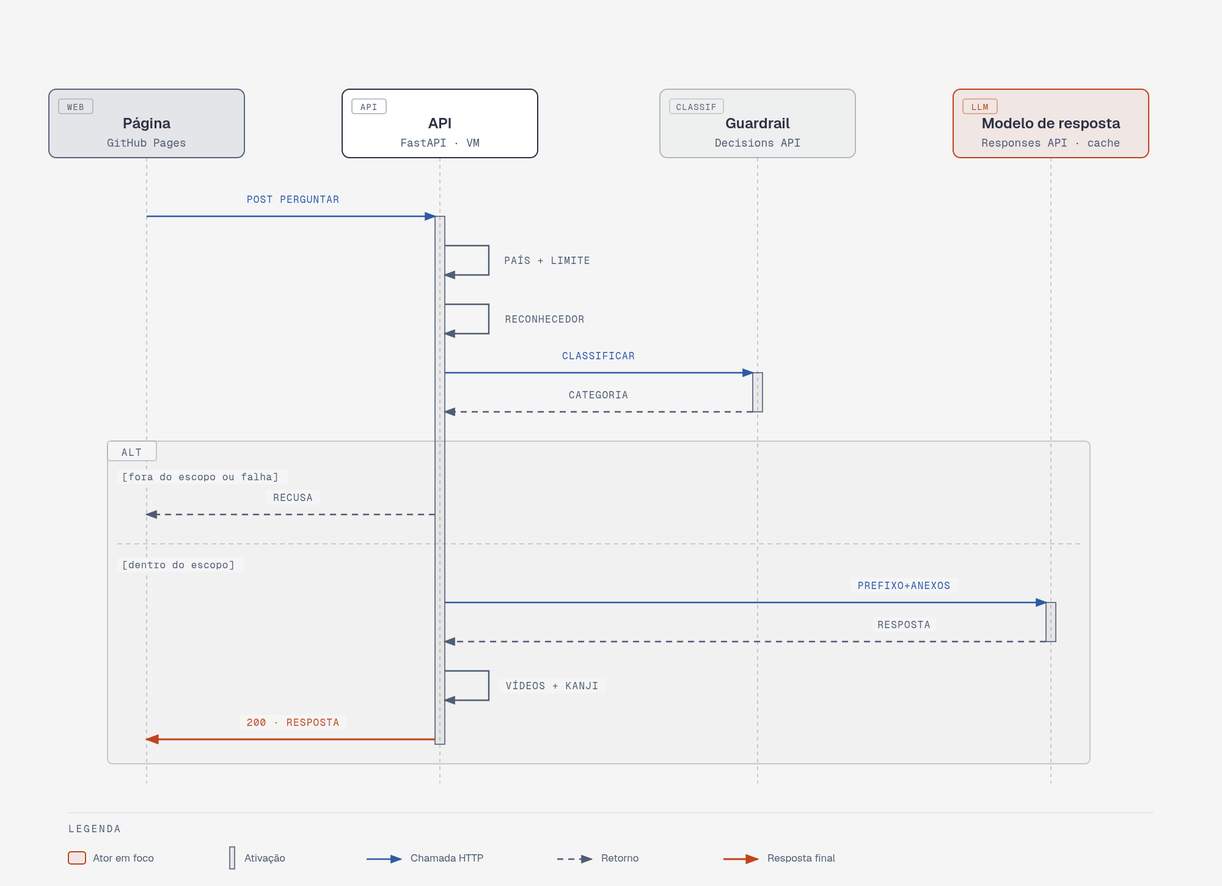
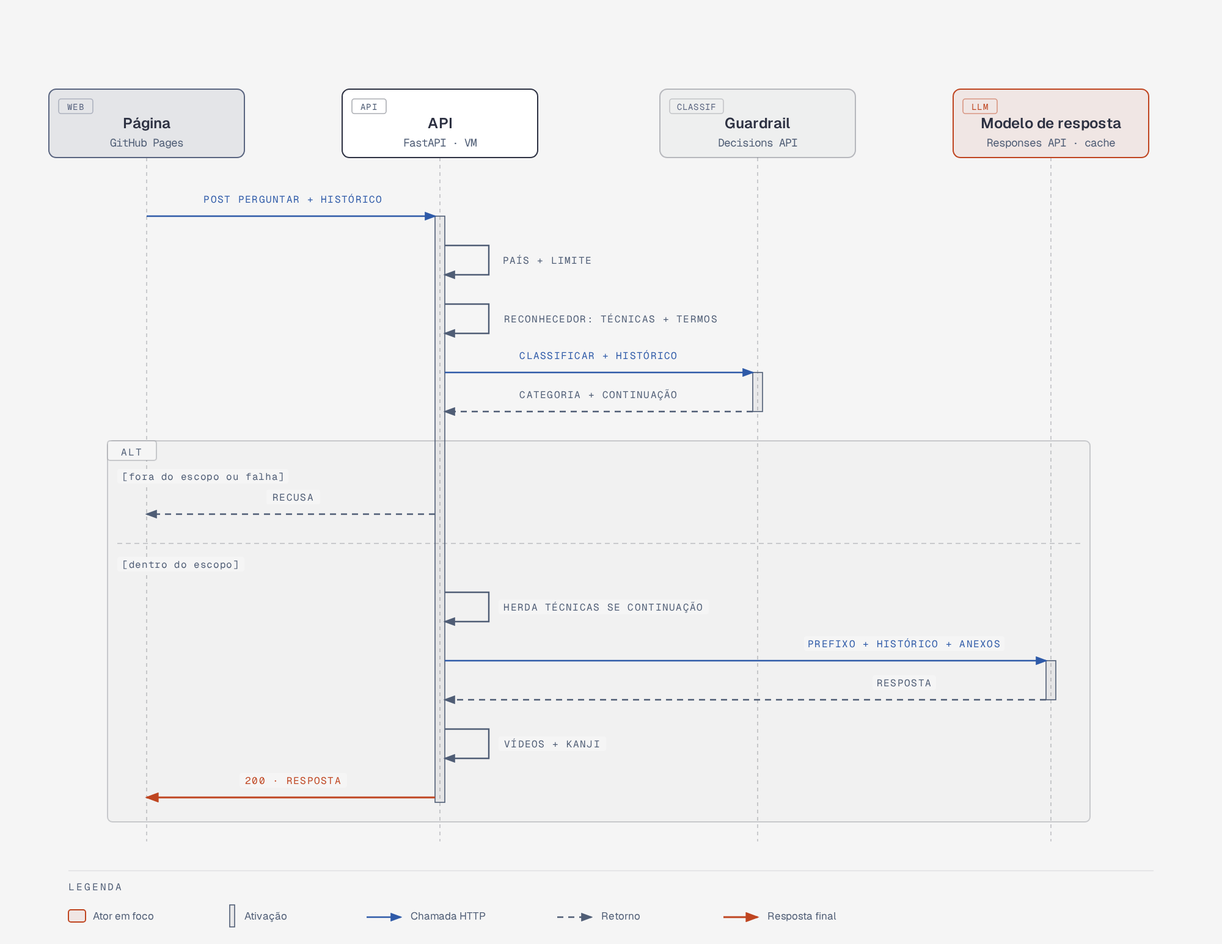
docs: refresh the page screenshot and the question diagrams
The screenshot still showed the techniques intro removed in PR #31. The
sequence diagram now shows the history reaching the guardrail, the
continuation verdict and the inherited techniques from PRs #38 and #39.

diff --git a/docs/arquitetura/pergunta-sequencia.html b/docs/arquitetura/pergunta-sequencia.html
@@ -60,20 +60,20 @@
     <p class="eyebrow">Sequence · Arquitetura CAG</p>
     <h1>Uma pergunta, ponta a ponta</h1>
     <div class="diagram-container">
-      <svg viewBox="0 0 1000 724" xmlns="http://www.w3.org/2000/svg" role="img" aria-labelledby="pergunta-sequencia-title pergunta-sequencia-desc">
+      <svg viewBox="0 0 1000 772" xmlns="http://www.w3.org/2000/svg" role="img" aria-labelledby="pergunta-sequencia-title pergunta-sequencia-desc">
         <title id="pergunta-sequencia-title">Uma pergunta, ponta a ponta</title>
-        <desc id="pergunta-sequencia-desc">Sequência de uma pergunta: a página chama a API, que passa pelo bloqueio por país, pelo rate limit e pelo reconhecedor, consulta o guardrail e, dentro do escopo, chama o modelo de resposta com o prefixo cacheado antes de devolver a resposta com vídeos e kanji.</desc>
+        <desc id="pergunta-sequencia-desc">Sequência de uma pergunta: a página chama a API, que passa pelo bloqueio por país, pelo rate limit e pelo reconhecedor, consulta o guardrail, que devolve a categoria e se a pergunta continua a troca anterior, e, dentro do escopo, chama o modelo de resposta com o prefixo cacheado antes de devolver a resposta com vídeos e kanji.</desc>
         <defs>
 <marker id="arrow" markerWidth="8" markerHeight="6" refX="7" refY="3" orient="auto"><polygon points="0 0, 8 3, 0 6" fill="#4f5d75"/></marker>
 <marker id="arrow-accent" markerWidth="8" markerHeight="6" refX="7" refY="3" orient="auto"><polygon points="0 0, 8 3, 0 6" fill="#bf4520"/></marker>
 <marker id="arrow-link" markerWidth="8" markerHeight="6" refX="7" refY="3" orient="auto"><polygon points="0 0, 8 3, 0 6" fill="#2e5aa8"/></marker>
         </defs>
         <rect width="100%" height="100%" fill="#f5f5f5"/>
-<line x1="120" y1="128" x2="120" y2="640" stroke="rgba(45,49,66,0.22)" stroke-width="1" stroke-dasharray="3,3"/>
-<line x1="360" y1="128" x2="360" y2="640" stroke="rgba(45,49,66,0.22)" stroke-width="1" stroke-dasharray="3,3"/>
-<line x1="620" y1="128" x2="620" y2="640" stroke="rgba(45,49,66,0.22)" stroke-width="1" stroke-dasharray="3,3"/>
-<line x1="860" y1="128" x2="860" y2="640" stroke="rgba(45,49,66,0.22)" stroke-width="1" stroke-dasharray="3,3"/>
-<rect x="88" y="360" width="804" height="264" rx="4" fill="rgba(45,49,66,0.02)" stroke="rgba(45,49,66,0.22)" stroke-width="1"/>
+<line x1="120" y1="128" x2="120" y2="688" stroke="rgba(45,49,66,0.22)" stroke-width="1" stroke-dasharray="3,3"/>
+<line x1="360" y1="128" x2="360" y2="688" stroke="rgba(45,49,66,0.22)" stroke-width="1" stroke-dasharray="3,3"/>
+<line x1="620" y1="128" x2="620" y2="688" stroke="rgba(45,49,66,0.22)" stroke-width="1" stroke-dasharray="3,3"/>
+<line x1="860" y1="128" x2="860" y2="688" stroke="rgba(45,49,66,0.22)" stroke-width="1" stroke-dasharray="3,3"/>
+<rect x="88" y="360" width="804" height="312" rx="4" fill="rgba(45,49,66,0.02)" stroke="rgba(45,49,66,0.22)" stroke-width="1"/>
 <rect x="88" y="360" width="40" height="16" rx="2" fill="#f5f5f5" stroke="rgba(45,49,66,0.22)" stroke-width="1"/>
 <text x="108" y="372" fill="#4f5d75" font-size="8" font-family="'Geist Mono', monospace" text-anchor="middle" letter-spacing="0.12em">ALT</text>
 <rect x="96" y="383" width="140" height="12" rx="2" fill="#f5f5f5"/>
@@ -81,29 +81,31 @@
 <rect x="96" y="455" width="104" height="12" rx="2" fill="#f5f5f5"/>
 <text x="100" y="464" fill="#4f5d75" font-size="8" font-family="'Geist Mono', monospace" letter-spacing="0.04em">[dentro do escopo]</text>
 <line x1="96" y1="444" x2="884" y2="444" stroke="rgba(45,49,66,0.2)" stroke-width="1" stroke-dasharray="4,3"/>
-<rect x="356" y="176" width="8" height="432" fill="rgba(45,49,66,0.06)" stroke="#4f5d75" stroke-width="0.8"/>
+<rect x="356" y="176" width="8" height="480" fill="rgba(45,49,66,0.06)" stroke="#4f5d75" stroke-width="0.8"/>
 <rect x="616" y="304" width="8" height="32" fill="rgba(45,49,66,0.06)" stroke="#4f5d75" stroke-width="0.8"/>
-<rect x="856" y="492" width="8" height="32" fill="rgba(45,49,66,0.06)" stroke="#4f5d75" stroke-width="0.8"/>
+<rect x="856" y="540" width="8" height="32" fill="rgba(45,49,66,0.06)" stroke="#4f5d75" stroke-width="0.8"/>
 <line x1="120" y1="176" x2="356" y2="176" stroke="#2e5aa8" stroke-width="1.2" marker-end="url(#arrow-link)"/>
 <path d="M 364 200 L 400 200 L 400 224 L 364 224" fill="none" stroke="#4f5d75" stroke-width="1.2" marker-end="url(#arrow)"/>
 <path d="M 364 248 L 400 248 L 400 272 L 364 272" fill="none" stroke="#4f5d75" stroke-width="1.2" marker-end="url(#arrow)"/>
 <line x1="364" y1="304" x2="616" y2="304" stroke="#2e5aa8" stroke-width="1.2" marker-end="url(#arrow-link)"/>
 <line x1="616" y1="336" x2="364" y2="336" stroke="#4f5d75" stroke-width="1.2" stroke-dasharray="5,4" marker-end="url(#arrow)"/>
 <line x1="356" y1="420" x2="120" y2="420" stroke="#4f5d75" stroke-width="1.2" stroke-dasharray="5,4" marker-end="url(#arrow)"/>
-<line x1="364" y1="492" x2="856" y2="492" stroke="#2e5aa8" stroke-width="1.2" marker-end="url(#arrow-link)"/>
-<line x1="856" y1="524" x2="364" y2="524" stroke="#4f5d75" stroke-width="1.2" stroke-dasharray="5,4" marker-end="url(#arrow)"/>
-<path d="M 364 548 L 400 548 L 400 572 L 364 572" fill="none" stroke="#4f5d75" stroke-width="1.2" marker-end="url(#arrow)"/>
-<line x1="356" y1="604" x2="120" y2="604" stroke="#bf4520" stroke-width="1.4" marker-end="url(#arrow-accent)"/>
-<rect x="196.0" y="156" width="88" height="12" rx="2" fill="#f5f5f5"/><text x="240.0" y="165" fill="#2e5aa8" font-size="8" font-family="'Geist Mono', monospace" text-anchor="middle" letter-spacing="0.08em">POST PERGUNTAR</text>
+<path d="M 364 484 L 400 484 L 400 508 L 364 508" fill="none" stroke="#4f5d75" stroke-width="1.2" marker-end="url(#arrow)"/>
+<line x1="364" y1="540" x2="856" y2="540" stroke="#2e5aa8" stroke-width="1.2" marker-end="url(#arrow-link)"/>
+<line x1="856" y1="572" x2="364" y2="572" stroke="#4f5d75" stroke-width="1.2" stroke-dasharray="5,4" marker-end="url(#arrow)"/>
+<path d="M 364 596 L 400 596 L 400 620 L 364 620" fill="none" stroke="#4f5d75" stroke-width="1.2" marker-end="url(#arrow)"/>
+<line x1="356" y1="652" x2="120" y2="652" stroke="#bf4520" stroke-width="1.4" marker-end="url(#arrow-accent)"/>
+<rect x="162.0" y="156" width="156" height="12" rx="2" fill="#f5f5f5"/><text x="240.0" y="165" fill="#2e5aa8" font-size="8" font-family="'Geist Mono', monospace" text-anchor="middle" letter-spacing="0.08em">POST PERGUNTAR + HISTÓRICO</text>
 <rect x="408" y="206" width="80" height="12" rx="2" fill="#f5f5f5"/><text x="448.0" y="215" fill="#4f5d75" font-size="8" font-family="'Geist Mono', monospace" text-anchor="middle" letter-spacing="0.08em">PAÍS + LIMITE</text>
-<rect x="408" y="254" width="76" height="12" rx="2" fill="#f5f5f5"/><text x="446.0" y="263" fill="#4f5d75" font-size="8" font-family="'Geist Mono', monospace" text-anchor="middle" letter-spacing="0.08em">RECONHECEDOR</text>
-<rect x="454.0" y="284" width="72" height="12" rx="2" fill="#f5f5f5"/><text x="490.0" y="293" fill="#2e5aa8" font-size="8" font-family="'Geist Mono', monospace" text-anchor="middle" letter-spacing="0.08em">CLASSIFICAR</text>
-<rect x="460.0" y="316" width="60" height="12" rx="2" fill="#f5f5f5"/><text x="490.0" y="325" fill="#4f5d75" font-size="8" font-family="'Geist Mono', monospace" text-anchor="middle" letter-spacing="0.08em">CATEGORIA</text>
+<rect x="408" y="254" width="184" height="12" rx="2" fill="#f5f5f5"/><text x="500.0" y="263" fill="#4f5d75" font-size="8" font-family="'Geist Mono', monospace" text-anchor="middle" letter-spacing="0.08em">RECONHECEDOR: TÉCNICAS + TERMOS</text>
+<rect x="422.0" y="284" width="136" height="12" rx="2" fill="#f5f5f5"/><text x="490.0" y="293" fill="#2e5aa8" font-size="8" font-family="'Geist Mono', monospace" text-anchor="middle" letter-spacing="0.08em">CLASSIFICAR + HISTÓRICO</text>
+<rect x="422.0" y="316" width="136" height="12" rx="2" fill="#f5f5f5"/><text x="490.0" y="325" fill="#4f5d75" font-size="8" font-family="'Geist Mono', monospace" text-anchor="middle" letter-spacing="0.08em">CATEGORIA + CONTINUAÇÃO</text>
 <rect x="218.0" y="400" width="44" height="12" rx="2" fill="#f5f5f5"/><text x="240.0" y="409" fill="#4f5d75" font-size="8" font-family="'Geist Mono', monospace" text-anchor="middle" letter-spacing="0.08em">RECUSA</text>
-<rect x="696.0" y="472" width="88" height="12" rx="2" fill="#f5f5f5"/><text x="740.0" y="481" fill="#2e5aa8" font-size="8" font-family="'Geist Mono', monospace" text-anchor="middle" letter-spacing="0.08em">PREFIXO+ANEXOS</text>
-<rect x="714.0" y="504" width="52" height="12" rx="2" fill="#f5f5f5"/><text x="740.0" y="513" fill="#4f5d75" font-size="8" font-family="'Geist Mono', monospace" text-anchor="middle" letter-spacing="0.08em">RESPOSTA</text>
-<rect x="408" y="554" width="88" height="12" rx="2" fill="#f5f5f5"/><text x="452.0" y="563" fill="#4f5d75" font-size="8" font-family="'Geist Mono', monospace" text-anchor="middle" letter-spacing="0.08em">VÍDEOS + KANJI</text>
-<rect x="196.0" y="584" width="88" height="12" rx="2" fill="#f5f5f5"/><text x="240.0" y="593" fill="#bf4520" font-size="8" font-family="'Geist Mono', monospace" text-anchor="middle" letter-spacing="0.08em">200 · RESPOSTA</text>
+<rect x="408" y="490" width="172" height="12" rx="2" fill="#f5f5f5"/><text x="494.0" y="499" fill="#4f5d75" font-size="8" font-family="'Geist Mono', monospace" text-anchor="middle" letter-spacing="0.08em">HERDA TÉCNICAS SE CONTINUAÇÃO</text>
+<rect x="658.0" y="520" width="164" height="12" rx="2" fill="#f5f5f5"/><text x="740.0" y="529" fill="#2e5aa8" font-size="8" font-family="'Geist Mono', monospace" text-anchor="middle" letter-spacing="0.08em">PREFIXO + HISTÓRICO + ANEXOS</text>
+<rect x="714.0" y="552" width="52" height="12" rx="2" fill="#f5f5f5"/><text x="740.0" y="561" fill="#4f5d75" font-size="8" font-family="'Geist Mono', monospace" text-anchor="middle" letter-spacing="0.08em">RESPOSTA</text>
+<rect x="408" y="602" width="88" height="12" rx="2" fill="#f5f5f5"/><text x="452.0" y="611" fill="#4f5d75" font-size="8" font-family="'Geist Mono', monospace" text-anchor="middle" letter-spacing="0.08em">VÍDEOS + KANJI</text>
+<rect x="196.0" y="632" width="88" height="12" rx="2" fill="#f5f5f5"/><text x="240.0" y="641" fill="#bf4520" font-size="8" font-family="'Geist Mono', monospace" text-anchor="middle" letter-spacing="0.08em">200 · RESPOSTA</text>
 <rect x="40" y="72" width="160" height="56" rx="6" fill="#f5f5f5"/>
 <rect x="40" y="72" width="160" height="56" rx="6" fill="rgba(79,93,117,0.10)" stroke="#5a6580" stroke-width="1"/>
 <rect x="48" y="80" width="28" height="12" rx="2" fill="transparent" stroke="rgba(90,101,128,0.40)" stroke-width="0.8"/>
@@ -128,21 +130,21 @@
 <text x="802.0" y="89" fill="#bf4520" font-size="7" font-family="'Geist Mono', monospace" text-anchor="middle" letter-spacing="0.08em">LLM</text>
 <text x="860.0" y="104.0" fill="#2d3142" font-size="12" font-family="'Geist', sans-serif" text-anchor="middle" font-weight="600">Modelo de resposta</text>
 <text x="860.0" y="119.0" fill="#4f5d75" font-size="9" font-family="'Geist Mono', monospace" text-anchor="middle">Responses API · cache</text>
-<line x1="56" y1="664" x2="944" y2="664" stroke="rgba(45,49,66,0.1)" stroke-width="0.8"/>
-<text x="56" y="680" fill="#4f5d75" font-size="8" font-family="'Geist Mono', monospace" letter-spacing="0.18em">LEGENDA</text>
-<rect x="56" y="696" width="14" height="10" rx="2" fill="rgba(191,69,32,0.08)" stroke="#bf4520" stroke-width="1"/>
-<text x="76" y="704" fill="#4f5d75" font-size="8.5" font-family="'Geist', sans-serif">Ator em foco</text>
-<rect x="188" y="692" width="4" height="18" fill="rgba(45,49,66,0.06)" stroke="#4f5d75" stroke-width="0.8"/>
-<text x="200" y="704" fill="#4f5d75" font-size="8.5" font-family="'Geist', sans-serif">Ativação</text>
-<line x1="300" y1="702" x2="328" y2="702" stroke="#2e5aa8" stroke-width="1.2" marker-end="url(#arrow-link)"/>
-<text x="336" y="704" fill="#4f5d75" font-size="8.5" font-family="'Geist', sans-serif">Chamada HTTP</text>
-<line x1="456" y1="702" x2="484" y2="702" stroke="#4f5d75" stroke-width="1.2" stroke-dasharray="5,4" marker-end="url(#arrow)"/>
-<text x="492" y="704" fill="#4f5d75" font-size="8.5" font-family="'Geist', sans-serif">Retorno</text>
-<line x1="592" y1="702" x2="620" y2="702" stroke="#bf4520" stroke-width="1.4" marker-end="url(#arrow-accent)"/>
-<text x="628" y="704" fill="#4f5d75" font-size="8.5" font-family="'Geist', sans-serif">Resposta final</text>
+<line x1="56" y1="712" x2="944" y2="712" stroke="rgba(45,49,66,0.1)" stroke-width="0.8"/>
+<text x="56" y="728" fill="#4f5d75" font-size="8" font-family="'Geist Mono', monospace" letter-spacing="0.18em">LEGENDA</text>
+<rect x="56" y="744" width="14" height="10" rx="2" fill="rgba(191,69,32,0.08)" stroke="#bf4520" stroke-width="1"/>
+<text x="76" y="752" fill="#4f5d75" font-size="8.5" font-family="'Geist', sans-serif">Ator em foco</text>
+<rect x="188" y="740" width="4" height="18" fill="rgba(45,49,66,0.06)" stroke="#4f5d75" stroke-width="0.8"/>
+<text x="200" y="752" fill="#4f5d75" font-size="8.5" font-family="'Geist', sans-serif">Ativação</text>
+<line x1="300" y1="750" x2="328" y2="750" stroke="#2e5aa8" stroke-width="1.2" marker-end="url(#arrow-link)"/>
+<text x="336" y="752" fill="#4f5d75" font-size="8.5" font-family="'Geist', sans-serif">Chamada HTTP</text>
+<line x1="456" y1="750" x2="484" y2="750" stroke="#4f5d75" stroke-width="1.2" stroke-dasharray="5,4" marker-end="url(#arrow)"/>
+<text x="492" y="752" fill="#4f5d75" font-size="8.5" font-family="'Geist', sans-serif">Retorno</text>
+<line x1="592" y1="750" x2="620" y2="750" stroke="#bf4520" stroke-width="1.4" marker-end="url(#arrow-accent)"/>
+<text x="628" y="752" fill="#4f5d75" font-size="8.5" font-family="'Geist', sans-serif">Resposta final</text>
       </svg>
     </div>
-    <p class="note">Só o guardrail e o modelo de resposta chamam um provedor. Na produção (OpenAI), o guardrail é um classificador pela Decisions API, que devolve probabilidades em vez de texto, e o modelo de resposta gera o texto pela Responses API, com o prefixo no cache. Na Anthropic, as duas chamadas usam a Messages API. Antes delas, o bloqueio por país responde 403 e o rate limit responde 429, sem gastar crédito. Se o guardrail falhar, a página recebe a mensagem de indisponibilidade pelo mesmo ramo da recusa. Vídeos, kanji e pronúncia saem dos dados (<code>video_groups</code>), sem modelo.</p>
+    <p class="note">Só o guardrail e o modelo de resposta chamam um provedor. Na produção (OpenAI), o guardrail é um classificador pela Decisions API, que devolve probabilidades em vez de texto, e o modelo de resposta gera o texto pela Responses API, com o prefixo no cache. Na Anthropic, as duas chamadas usam a Messages API. Antes delas, o bloqueio por país responde 403 e o rate limit responde 429, sem gastar crédito. Se o guardrail falhar, a página recebe a mensagem de indisponibilidade pelo mesmo ramo da recusa. O guardrail recebe os mesmos turnos completos do histórico que o modelo de resposta, e os delimitadores reservados do prompt são removidos da pergunta e do histórico (<code>strip_prompt_tags</code>). Uma pergunta sem técnica nem termo próprios só herda as técnicas da última pergunta do histórico se o guardrail indicar continuação. Vídeos, kanji e pronúncia saem dos dados (<code>video_groups</code>), sem modelo.</p>
   </div>
 </body>
 </html>

diff --git a/docs/arquitetura/prompt-cag.html b/docs/arquitetura/prompt-cag.html
@@ -112,10 +112,10 @@
 <text x="152" y="496" fill="#2d3142" font-size="14" font-family="'Instrument Serif', 'Noto Serif', serif" font-style="italic">O prefixo é montado uma vez na partida e sai sempre com os mesmos bytes; o que muda vai depois.</text>
 <text x="152" y="536" fill="#4f5d75" font-size="8" font-family="'Geist Mono', monospace" letter-spacing="0.18em">E O GUARDRAIL</text>
 <text x="152" y="560" fill="#2d3142" font-size="14" font-family="'Instrument Serif', 'Noto Serif', serif" font-style="italic">O guardrail não lê este prompt. Pela Decisions API ele recebe as próprias instruções,</text>
-<text x="152" y="580" fill="#2d3142" font-size="14" font-family="'Instrument Serif', 'Noto Serif', serif" font-style="italic">o histórico, a pergunta e as técnicas reconhecidas, sem o corpus, e devolve probabilidades.</text>
+<text x="152" y="580" fill="#2d3142" font-size="14" font-family="'Instrument Serif', 'Noto Serif', serif" font-style="italic">o histórico, a pergunta e as técnicas e os termos reconhecidos, sem o corpus, e devolve probabilidades.</text>
       </svg>
     </div>
-    <p class="note">Este é o prompt do modelo de resposta, que gera o texto; na OpenAI ele vai pela Responses API. O guardrail é outra chamada, um classificador pela Decisions API que não gera texto. Na Anthropic, as duas chamadas usam a Messages API, e o guardrail devolve a categoria por saída estruturada. O prefixo (instruções e corpus) é montado por <code>build_system_text</code> na partida da API e não muda entre perguntas. Na OpenAI, que é a produção, ele fica no cache por 12 horas (<code>prompt_cache_options.ttl</code>); na Anthropic, por 1 hora com re-aquecimento (<code>keepalive.py</code>). As camadas 03 a 05 são a mensagem do usuário, montada por <code>build_user_message</code>. Os ~28 mil tokens do corpus são a medida no gpt-6-luna; no Haiku 5.5 são cerca de 46 mil.</p>
+    <p class="note">Este é o prompt do modelo de resposta, que gera o texto; na OpenAI ele vai pela Responses API. O guardrail é outra chamada, um classificador pela Decisions API que não gera texto. Na Anthropic, as duas chamadas usam a Messages API, e o guardrail devolve a categoria e a continuação por saída estruturada. O prefixo (instruções e corpus) é montado por <code>build_system_text</code> na partida da API e não muda entre perguntas. Na OpenAI, que é a produção, ele fica no cache por 12 horas (<code>prompt_cache_options.ttl</code>); na Anthropic, por 1 hora com re-aquecimento (<code>keepalive.py</code>). As camadas 03 a 05 são a mensagem do usuário, montada por <code>build_user_message</code>. Os ~28 mil tokens do corpus são a medida no gpt-6-luna; no Haiku 5.5 são cerca de 46 mil.</p>
   </div>
 </body>
 </html>

diff --git a/scripts/diagramas_arquitetura.py b/scripts/diagramas_arquitetura.py
@@ -252,7 +252,10 @@ def prompt_layers():
     b.append(text(x0, 536, "E O GUARDRAIL", 8, MUTED, MONO, spacing="0.18em"))
     for gy, line in (
         (560, "O guardrail não lê este prompt. Pela Decisions API ele recebe as próprias instruções,"),
-        (580, "o histórico, a pergunta e as técnicas reconhecidas, sem o corpus, e devolve probabilidades."),
+        (
+            580,
+            "o histórico, a pergunta e as técnicas e os termos reconhecidos, sem o corpus, e devolve probabilidades.",
+        ),
     ):
         b.append(text(x0, gy, line, 14, INK, SERIF, italic=True))
     return page(
@@ -266,7 +269,7 @@ def prompt_layers():
         "\n".join(b),
         "Este é o prompt do modelo de resposta, que gera o texto; na OpenAI ele vai pela Responses API. O guardrail é outra chamada, "
         "um classificador pela Decisions API que não gera texto. Na Anthropic, as duas chamadas usam a Messages API, e o guardrail "
-        "devolve a categoria por saída estruturada. "
+        "devolve a categoria e a continuação por saída estruturada. "
         "O prefixo (instruções e corpus) é montado por <code>build_system_text</code> na partida da API e não muda entre perguntas. "
         "Na OpenAI, que é a produção, ele fica no cache por 12 horas (<code>prompt_cache_options.ttl</code>); na Anthropic, por 1 hora com "
         "re-aquecimento (<code>keepalive.py</code>). As camadas 03 a 05 são a mensagem do usuário, montada por <code>build_user_message</code>. "
@@ -280,10 +283,10 @@ def question_sequence():
     b = []
     for cx in (P, A, G, M):
         b.append(
-            f'<line x1="{cx}" y1="128" x2="{cx}" y2="640" stroke="{ink(0.22)}" stroke-width="1" stroke-dasharray="3,3"/>'
+            f'<line x1="{cx}" y1="128" x2="{cx}" y2="688" stroke="{ink(0.22)}" stroke-width="1" stroke-dasharray="3,3"/>'
         )
     # Fragmento ALT (atrás das mensagens)
-    fx, fy, fw, fh = 88, 360, 804, 264
+    fx, fy, fw, fh = 88, 360, 804, 312
     b.append(
         f'<rect x="{fx}" y="{fy}" width="{fw}" height="{fh}" rx="4" fill="{ink(0.02)}" stroke="{ink(0.22)}" stroke-width="1"/>'
     )
@@ -300,9 +303,9 @@ def question_sequence():
     )
     # Barras de ativação
     act = 'fill="rgba(45,49,66,0.06)" stroke="#4f5d75" stroke-width="0.8"'
-    b.append(f'<rect x="{A - 4}" y="176" width="8" height="432" {act}/>')
+    b.append(f'<rect x="{A - 4}" y="176" width="8" height="480" {act}/>')
     b.append(f'<rect x="{G - 4}" y="304" width="8" height="32" {act}/>')
-    b.append(f'<rect x="{M - 4}" y="492" width="8" height="32" {act}/>')
+    b.append(f'<rect x="{M - 4}" y="540" width="8" height="32" {act}/>')
 
     def call(x1, x2, y, color, marker, dashed=False, width=1.2):
         dash = ' stroke-dasharray="5,4"' if dashed else ""
@@ -318,22 +321,24 @@ def question_sequence():
         call(A + 4, G - 4, 304, LINK, "arrow-link"),
         call(G - 4, A + 4, 336, MUTED, "arrow", dashed=True),
         call(A - 4, P, 420, MUTED, "arrow", dashed=True),
-        call(A + 4, M - 4, 492, LINK, "arrow-link"),
-        call(M - 4, A + 4, 524, MUTED, "arrow", dashed=True),
-        self_loop(548, 572),
-        call(A - 4, P, 604, ACCENT, "arrow-accent", width=1.4),
+        self_loop(484, 508),
+        call(A + 4, M - 4, 540, LINK, "arrow-link"),
+        call(M - 4, A + 4, 572, MUTED, "arrow", dashed=True),
+        self_loop(596, 620),
+        call(A - 4, P, 652, ACCENT, "arrow-accent", width=1.4),
     ]
     b += [
-        label((P + A) / 2, 176, "POST PERGUNTAR", LINK),
+        label((P + A) / 2, 176, "POST PERGUNTAR + HISTÓRICO", LINK),
         side_label(A + 48, 212, "PAÍS + LIMITE"),
-        side_label(A + 48, 260, "RECONHECEDOR"),
-        label((A + G) / 2, 304, "CLASSIFICAR", LINK),
-        label((A + G) / 2, 336, "CATEGORIA"),
+        side_label(A + 48, 260, "RECONHECEDOR: TÉCNICAS + TERMOS"),
+        label((A + G) / 2, 304, "CLASSIFICAR + HISTÓRICO", LINK),
+        label((A + G) / 2, 336, "CATEGORIA + CONTINUAÇÃO"),
         label((P + A) / 2, 420, "RECUSA"),
-        label((G + M) / 2, 492, "PREFIXO+ANEXOS", LINK),
-        label((G + M) / 2, 524, "RESPOSTA"),
-        side_label(A + 48, 560, "VÍDEOS + KANJI"),
-        label((P + A) / 2, 604, "200 · RESPOSTA", ACCENT),
+        side_label(A + 48, 496, "HERDA TÉCNICAS SE CONTINUAÇÃO"),
+        label((G + M) / 2, 540, "PREFIXO + HISTÓRICO + ANEXOS", LINK),
+        label((G + M) / 2, 572, "RESPOSTA"),
+        side_label(A + 48, 608, "VÍDEOS + KANJI"),
+        label((P + A) / 2, 652, "200 · RESPOSTA", ACCENT),
     ]
     b += [
         node(P - 80, 72, 160, 56, "WEB", "Página", "GitHub Pages", "input"),
@@ -342,39 +347,42 @@ def question_sequence():
         node(M - 80, 72, 160, 56, "LLM", "Modelo de resposta", "Responses API · cache", "focal"),
     ]
     # Legenda
-    b.append(f'<line x1="56" y1="664" x2="944" y2="664" stroke="{ink(0.10)}" stroke-width="0.8"/>')
-    b.append(text(56, 680, "LEGENDA", 8, MUTED, MONO, spacing="0.18em"))
+    b.append(f'<line x1="56" y1="712" x2="944" y2="712" stroke="{ink(0.10)}" stroke-width="0.8"/>')
+    b.append(text(56, 728, "LEGENDA", 8, MUTED, MONO, spacing="0.18em"))
     b.append(
-        f'<rect x="56" y="696" width="14" height="10" rx="2" fill="{ACCENT_TINT}" stroke="{ACCENT}" stroke-width="1"/>'
+        f'<rect x="56" y="744" width="14" height="10" rx="2" fill="{ACCENT_TINT}" stroke="{ACCENT}" stroke-width="1"/>'
     )
-    b.append(text(76, 704, "Ator em foco", 8.5, MUTED))
-    b.append(f'<rect x="188" y="692" width="4" height="18" {act}/>')
-    b.append(text(200, 704, "Ativação", 8.5, MUTED))
+    b.append(text(76, 752, "Ator em foco", 8.5, MUTED))
+    b.append(f'<rect x="188" y="740" width="4" height="18" {act}/>')
+    b.append(text(200, 752, "Ativação", 8.5, MUTED))
     b.append(
-        f'<line x1="300" y1="702" x2="328" y2="702" stroke="{LINK}" stroke-width="1.2" marker-end="url(#arrow-link)"/>'
+        f'<line x1="300" y1="750" x2="328" y2="750" stroke="{LINK}" stroke-width="1.2" marker-end="url(#arrow-link)"/>'
     )
-    b.append(text(336, 704, "Chamada HTTP", 8.5, MUTED))
+    b.append(text(336, 752, "Chamada HTTP", 8.5, MUTED))
     b.append(
-        f'<line x1="456" y1="702" x2="484" y2="702" stroke="{MUTED}" stroke-width="1.2" stroke-dasharray="5,4" marker-end="url(#arrow)"/>'
+        f'<line x1="456" y1="750" x2="484" y2="750" stroke="{MUTED}" stroke-width="1.2" stroke-dasharray="5,4" marker-end="url(#arrow)"/>'
     )
-    b.append(text(492, 704, "Retorno", 8.5, MUTED))
+    b.append(text(492, 752, "Retorno", 8.5, MUTED))
     b.append(
-        f'<line x1="592" y1="702" x2="620" y2="702" stroke="{ACCENT}" stroke-width="1.4" marker-end="url(#arrow-accent)"/>'
+        f'<line x1="592" y1="750" x2="620" y2="750" stroke="{ACCENT}" stroke-width="1.4" marker-end="url(#arrow-accent)"/>'
     )
-    b.append(text(628, 704, "Resposta final", 8.5, MUTED))
+    b.append(text(628, 752, "Resposta final", 8.5, MUTED))
     return page(
         "pergunta-sequencia",
         "Sequence · Arquitetura CAG",
         "Uma pergunta, ponta a ponta",
         "Uma pergunta, ponta a ponta",
-        "Sequência de uma pergunta: a página chama a API, que passa pelo bloqueio por país, pelo rate limit e pelo reconhecedor, consulta o guardrail e, dentro do escopo, chama o modelo de resposta com o prefixo cacheado antes de devolver a resposta com vídeos e kanji.",
+        "Sequência de uma pergunta: a página chama a API, que passa pelo bloqueio por país, pelo rate limit e pelo reconhecedor, consulta o guardrail, que devolve a categoria e se a pergunta continua a troca anterior, e, dentro do escopo, chama o modelo de resposta com o prefixo cacheado antes de devolver a resposta com vídeos e kanji.",
         1000,
-        724,
+        772,
         "\n".join(b),
         "Só o guardrail e o modelo de resposta chamam um provedor. Na produção (OpenAI), o guardrail é um classificador pela Decisions API, "
         "que devolve probabilidades em vez de texto, e o modelo de resposta gera o texto pela Responses API, com o prefixo no cache. "
         "Na Anthropic, as duas chamadas usam a Messages API. Antes delas, o bloqueio por país responde 403 e o rate limit responde 429, "
         "sem gastar crédito. Se o guardrail falhar, a página recebe a mensagem de indisponibilidade pelo mesmo ramo da recusa. "
+        "O guardrail recebe os mesmos turnos completos do histórico que o modelo de resposta, e os delimitadores reservados do prompt "
+        "são removidos da pergunta e do histórico (<code>strip_prompt_tags</code>). Uma pergunta sem técnica nem termo próprios só herda "
+        "as técnicas da última pergunta do histórico se o guardrail indicar continuação. "
         "Vídeos, kanji e pronúncia saem dos dados (<code>video_groups</code>), sem modelo.",
     )
 
